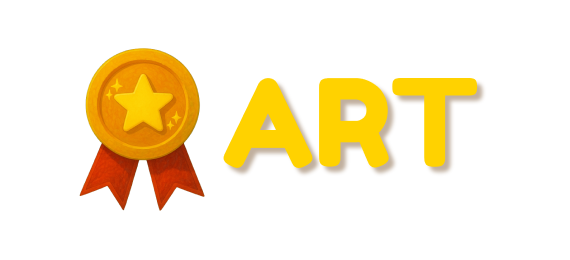
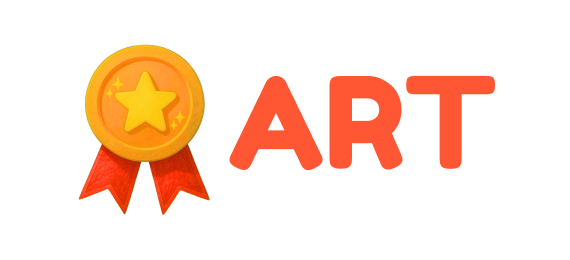
Update 2048 example to use 3B model with longer context on T4 (#48)
* Denser rewards

* Remove newline

* Document supported models

* Replace ART pill

* Add code for using model

* Add sample cell

* Update to state 3B model

* Increase sequence length, decrease winning value, fix test output

* Remove training output

Changed region(s): [[0.3877, 0.2769, 0.8947, 0.6769], [0.1193, 0.1538, 0.3877, 0.8308]]

diff --git a/README.md b/README.md
@@ -22,7 +22,7 @@ ART is an open-source reinforcement training library for improving LLM performan
 
 | Agent Task | Example Notebook                                                                                                | Description                     | Comparative Performance |
 | ---------- | --------------------------------------------------------------------------------------------------------------- | ------------------------------- | ----------------------- |
-| **2048**   | [🏋️ Train your agent](https://colab.research.google.com/github/openpipe/art/blob/main/examples/2048/2048.ipynb) | Qwen 2.5 7B learns to play 2048 | [Link coming soon]      |
+| **2048**   | [🏋️ Train your agent](https://colab.research.google.com/github/openpipe/art/blob/main/examples/2048/2048.ipynb) | Qwen 2.5 3B learns to play 2048 | [Link coming soon]      |
 
 ## 🔁 Training Loop Overview
 
@@ -42,6 +42,18 @@ ART's functionality is divided into a **client** and a **server**. The OpenAI-co
    4. Inference is unblocked and the loop resumes at step 1.
 
 This training loop runs until a specified number of inference and training iterations have completed.
+
+## Supported Models
+
+ART currently supports the following models, and we plan to add more soon!
+
+- [`Qwen/Qwen2.5-0.5B-Instruct`](https://huggingface.co/Qwen/Qwen2.5-0.5B-Instruct)
+- [`Qwen/Qwen2.5-1.5B-Instruct`](https://huggingface.co/Qwen/Qwen2.5-1.5B-Instruct)
+- [`Qwen/Qwen2.5-3B-Instruct`](https://huggingface.co/Qwen/Qwen2.5-3B-Instruct)
+- [`Qwen/Qwen2.5-7B-Instruct`](https://huggingface.co/Qwen/Qwen2.5-7B-Instruct)
+- [`Qwen/Qwen2.5-14B-Instruct`](https://huggingface.co/Qwen/Qwen2.5-14B-Instruct)
+- [`Qwen/Qwen2.5-32B-Instruct`](https://huggingface.co/Qwen/Qwen2.5-32B-Instruct)
+- [`Qwen/Qwen2.5-72B-Instruct`](https://huggingface.co/Qwen/Qwen2.5-72B-Instruct)
 
 ## ⚠️ Disclaimer
 